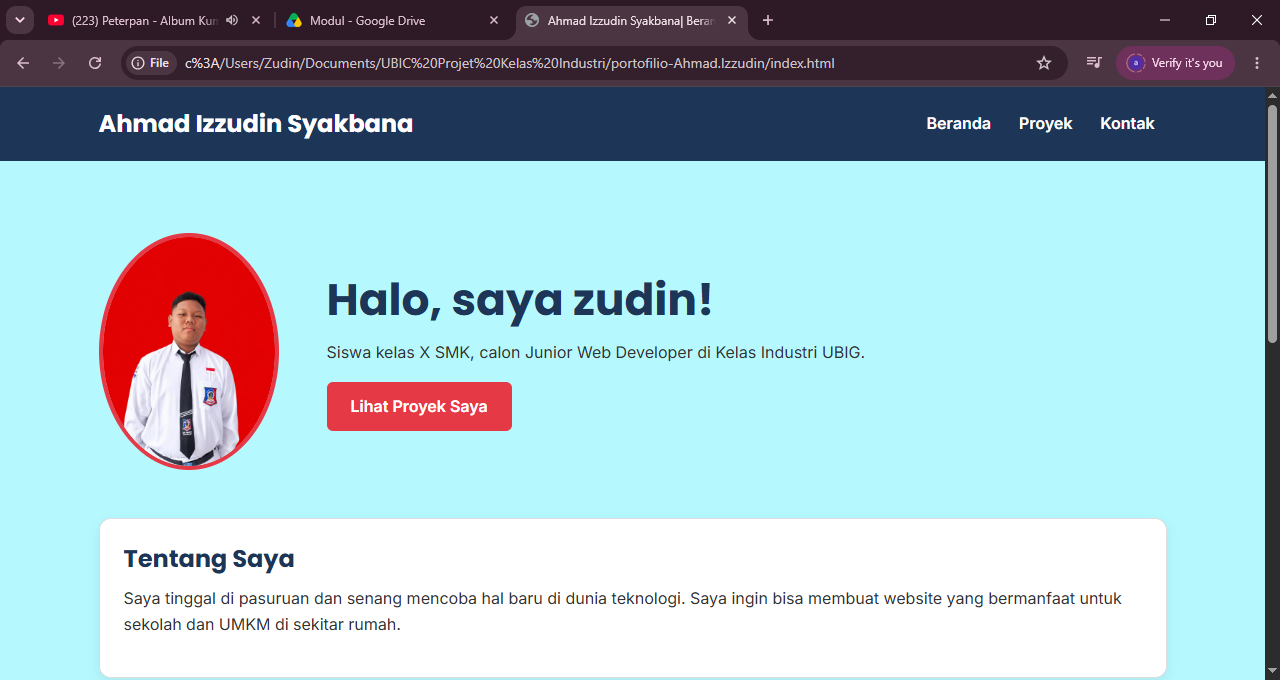
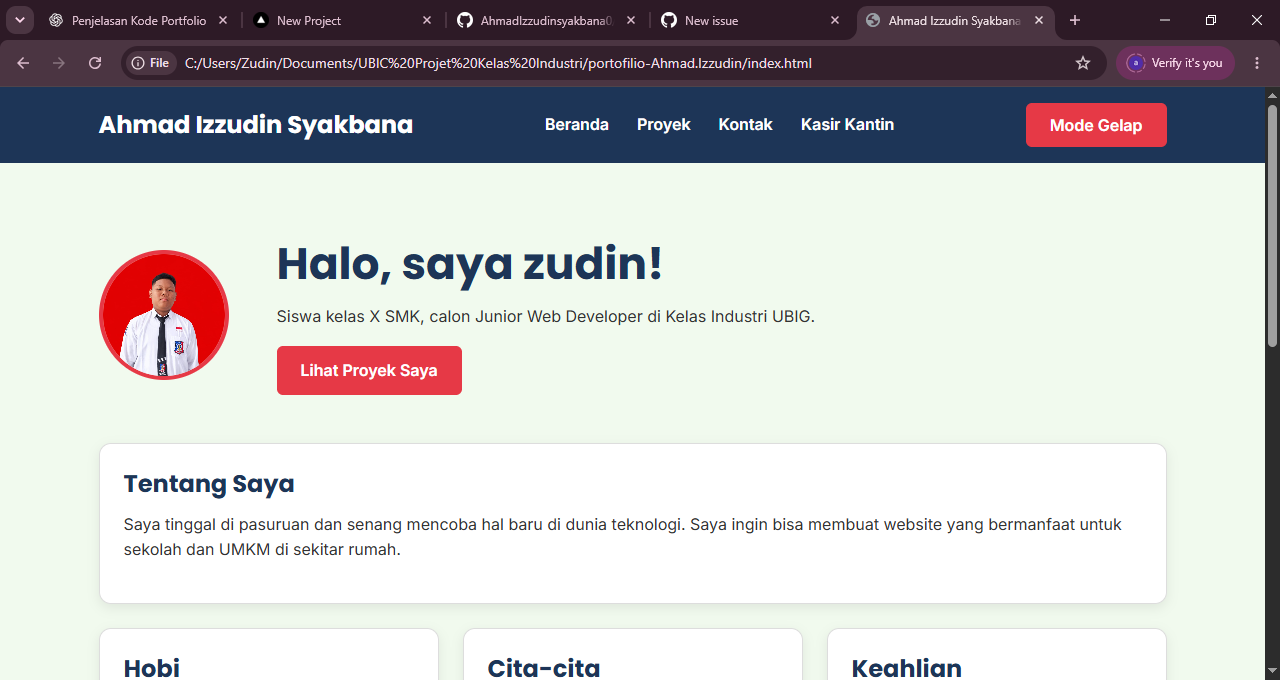
LT 1

diff --git a/css/style.css b/css/style.css
@@ -363,3 +363,21 @@ body.gelap {
   font-size: 14px;
   color: var(--warna-teks);
 }
+
+
+
+/* 12. tombol atas */
+.tombol-atas {
+    background-color: transparent;
+    border: 2px solid #FFFFFF;
+    color: #FFFFFF;
+    margin-top: 16px;
+    padding: 8px 16px;
+    border-radius: 16px;
+    cursor: pointer;
+    font-size: 0.9rem;
+}
+
+.tombol-atas:hover {
+    background-color: rgba(255, 255, 255, 0.15);
+}

diff --git a/js/latihan2.js b/js/latihan2.js
@@ -175,3 +175,15 @@ if (daftarProyek && jumlahProyek) {
   pasangFilter("#filter-css", "CSS");
   pasangFilter("#filter-javascript", "JavaScript");
 }
+
+// tombol ke atas
+const tombolAtas = document.querySelector("#tombol-atas");
+
+if (tombolAtas) {
+    tombolAtas.addEventListener("click", function () {
+        window.scrollTo({
+            top: 0,
+            behavior: "smooth"
+        });
+    });
+}

diff --git a/index.html b/index.html
@@ -131,6 +131,8 @@
       <a href="https://github.com/" target="_blank">GitHub</a> |
       <a href="https://www.youtube.com/" target="_blank">YouTube</a></p>
     <p>&copy; 2026 Ahmad Izzudin Syakbana. Dibuat di Kelas Industri UBIG.</p>
-  </footer>
+
+    <button type="button" id="tombol-atas" class="tombol-atas">kembali ke atas </button>
+ </footer>
 </body>
 </html>

diff --git a/kontak.html b/kontak.html
@@ -105,6 +105,8 @@
       <a href="https://github.com/" target="_blank">GitHub</a> |
       <a href="https://www.youtube.com/" target="_blank">YouTube</a></p>
     <p>&copy; 2026 Ahmad Izzudin Syakbana. Dibuat di Kelas Industri UBIG.</p>
+
+    <button type="button" id="tombol-atas" class="tombol-atas">kembali ke atas </button>
   </footer>
 </body>
 </html>

diff --git a/proyek.html b/proyek.html
@@ -82,6 +82,8 @@
       <a href="https://github.com/" target="_blank">GitHub</a> |
       <a href="https://www.youtube.com/" target="_blank">YouTube</a></p>
     <p>&copy; 2026 Ahmad Izzudin Syakbana. Dibuat di Kelas Industri UBIG.</p>
+
+    <button type="button" id="tombol-atas" class="tombol-atas">kembali ke atas </button>
   </footer>
 </body>
 </html>

diff --git a/README.md b/README.md
@@ -1,19 +1,32 @@
-# Portofolio Ahamd Izzudin Syakbana
+# Portofolio Ahmad Izzudin Syakbana
 Website portofolio pribadi yang saya buat di Kelas Industri UBIG
-(Paket 1, Minggu 01 sampai 05).
-Website ini tampil rapi di ponsel, tablet, dan laptop.
+(Paket 1, Minggu 01 sampai 09).
+Versi ini adalah **Portofolio v2**: tampil rapi di ponsel, tablet,
+dan laptop, serta interaktif dengan JavaScript.
 ## Tampilan
-![Tampilan beranda portofolio](img/tampilan-portofolio.png)
+![Tampilan beranda Portofolio v2](img/tampilan-portofolio.png)
 ## Fitur
-- Halaman **Beranda** berisi profil, hobi, cita-cita, keahlian, dan
-jadwal belajar
-- Halaman **Proyek** berisi daftar proyek dalam bentuk kartu
-- Halaman **Kontak** berisi form untuk menghubungi saya
+- Halaman **Beranda** berisi profil, hobi, cita-cita, jadwal
+belajar, dan daftar keahlian dari `data/keahlian.json` yang bisa
+ditambah
+- Halaman **Proyek** berisi enam kartu proyek dari
+`data/proyek.json` dengan filter kategori, serta repositori GitHub
+terbaru dari GitHub API
+- Halaman **Kontak** berisi form dengan penghitung karakter pesan
+- Mode gelap di semua halaman
 - Tampilan responsif dengan Flexbox dan *media query*
 ## Teknologi
-- HTML5
-- CSS3 (Flexbox dan media query)
-- Git dan GitHub
+- HTML5 dan CSS3 (Flexbox, *media query*, dan variabel CSS)
+- JavaScript (DOM, *event*, `fetch`, dan `async`/`await`)
+- JSON dan GitHub REST API
+- Git, GitHub, dan Vercel
+## Skor Lighthouse (mobile)
+- Beranda: Performance 96, Accessibility 100, Best Practices 100,
+SEO 100
+- Proyek: Performance 95, Accessibility 100, Best Practices 100, SEO
+100
+- Kontak: Performance 99, Accessibility 100, Best Practices 100, SEO
+100
 ## Tautan
-- Website: menyusul setelah *deploy* ke Vercel
-- Dibuat oleh: Ahamad Izzudin Syakbana, SMK1 PASURUAN
+- Website: https://vercel.com/ahmad-izzudin-syakbana
+- Dibuat oleh: Ahmad Izzudin Syakbana, SMKN1 PASURUAN
